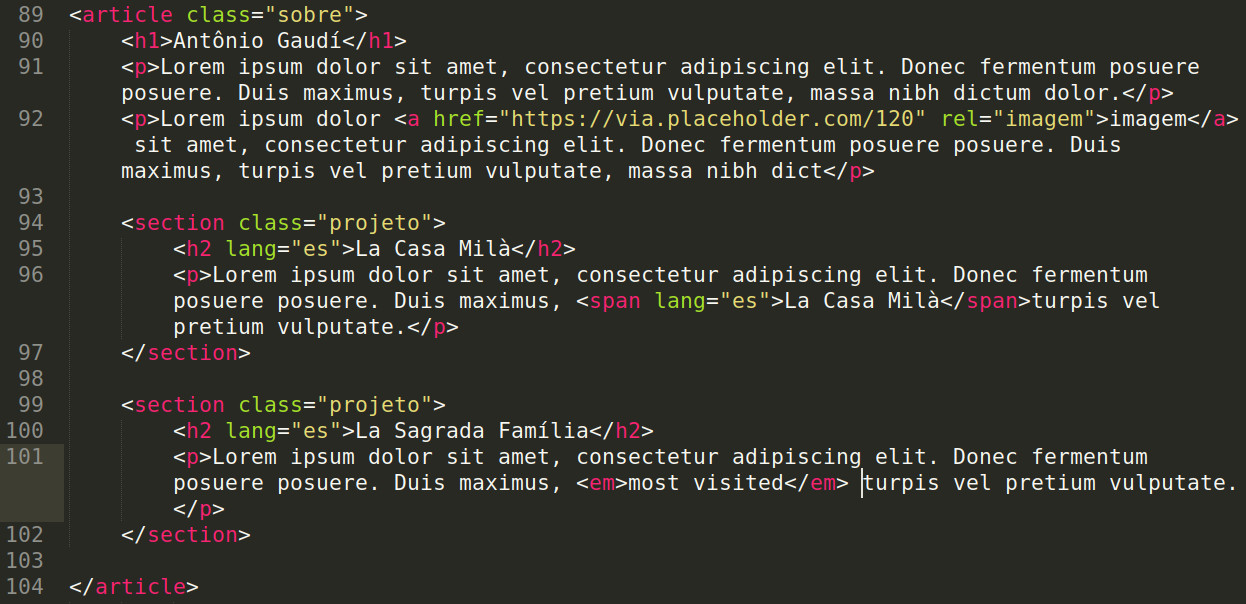
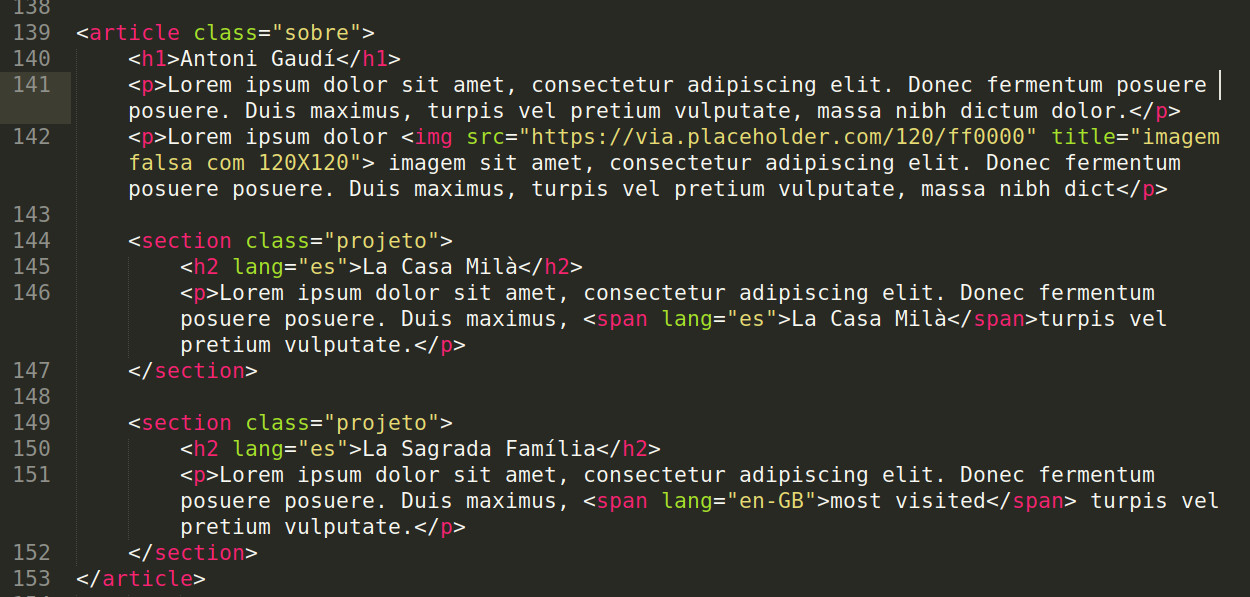
rule css3 atributos; projeto UI; nova imagem html_cod

diff --git a/html5/aula_1/rule.html b/html5/aula_1/rule.html
@@ -113,11 +113,31 @@
 			<p>Imagine que o nosso rel, do trecho de código acima, tenha valores de atributos multiplos, então ele seria assim: <strong>rel="imagem data"</strong>. Nesse caso deve-se usar o sinal de til (~) que aponta para um valor de atributos específicos de uma lista de valores separados por espaços em branco.</p>
 			<hr>
 
+			<p class="code" style="border: 1px solid #000; padding: 10px; background: #efefef;"><strong>span[lang|="en-GB"] {<br><span style="padding-left: 1.5em;">color: #ff0000;</span><br>}</strong></p>
+			<p>Usa-se esse seletor de atributo para encontrar um valor igual a outro ou que tenha um separador com hífen (-).</p>
+			<hr>
+
+			<p class="code" style="border: 1px solid #000; padding: 10px; background: #efefef;"><strong>img[src^="http"] {<br><span style="padding-left: 1.5em;">color: #ff0000;</span><br>}</strong></p>
+			<p>O signo de circunflexo (^) quando relacionado com o seletor de substring significa <strong>"começa com".</strong> </p>
+			<hr>
+
+			<p class="code" style="border: 1px solid #000; padding: 10px; background: #efefef;"><strong>img[src$="jpg"] {<br><span style="padding-left: 1.5em;">color: #ff0000;</span><br>}</strong></p>
+			<p>O signo de circunflexo ($) quando relacionado com o seletor de substring significa <strong>"termina com".</strong> </p>
+			<hr>
+
+			<p class="code" style="border: 1px solid #000; padding: 10px; background: #efefef;"><strong>a[href*="mdn"] {<br><span style="padding-left: 1.5em;">color: #ff0000;</span><br>}</strong></p>
+			<p>O signo de circunflexo (*) quando relacionado com o seletor de substring significa <strong>"contém".</strong> </p>
+			<hr>
+
+			<p class="code" style="border: 1px solid #000; padding: 10px; background: #efefef;"><strong>p, h2 {<br><span style="padding-left: 1.5em;">color: #ff0000;</span><br>}</strong></p>
+			<p>A combinação de seletores e feita separando cada seletor por vírgula.</strong> </p>
+			<hr>
+
 
 
 
 <!-- <article class="sobre">
-	<h1>Antônio Gaudí</h1>
+	<h1>Antoni Gaudí</h1>
 	<p>Lorem ipsum dolor sit amet, consectetur adipiscing elit. Donec fermentum posuere posuere. Duis maximus, turpis vel pretium vulputate, massa nibh dictum dolor.</p>
 	<p>Lorem ipsum dolor <img src="https://via.placeholder.com/120/ff0000" title="imagem falsa com 120X120"> imagem sit amet, consectetur adipiscing elit. Donec fermentum posuere posuere. Duis maximus, turpis vel pretium vulputate, massa nibh dict</p>
 
@@ -128,9 +148,8 @@
 
 	<section class="projeto">
 		<h2 lang="es">La Sagrada Família</h2>
-		<p>Lorem ipsum dolor sit amet, consectetur adipiscing elit. Donec fermentum posuere posuere. Duis maximus, <em>most visited</em> turpis vel pretium vulputate.</p>
+		<p>Lorem ipsum dolor sit amet, consectetur adipiscing elit. Donec fermentum posuere posuere. Duis maximus, <span lang="en-GB">most visited</span> turpis vel pretium vulputate.</p>
 	</section>
-
 </article> -->
 
 
